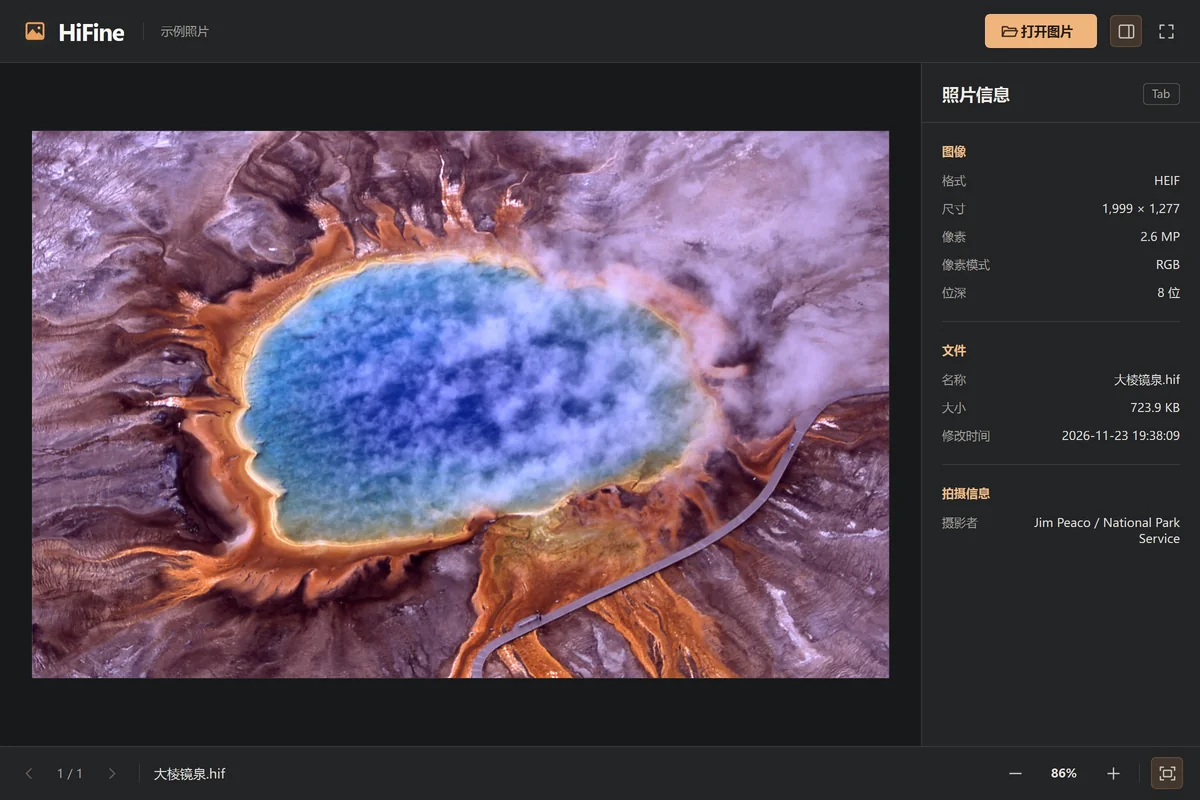
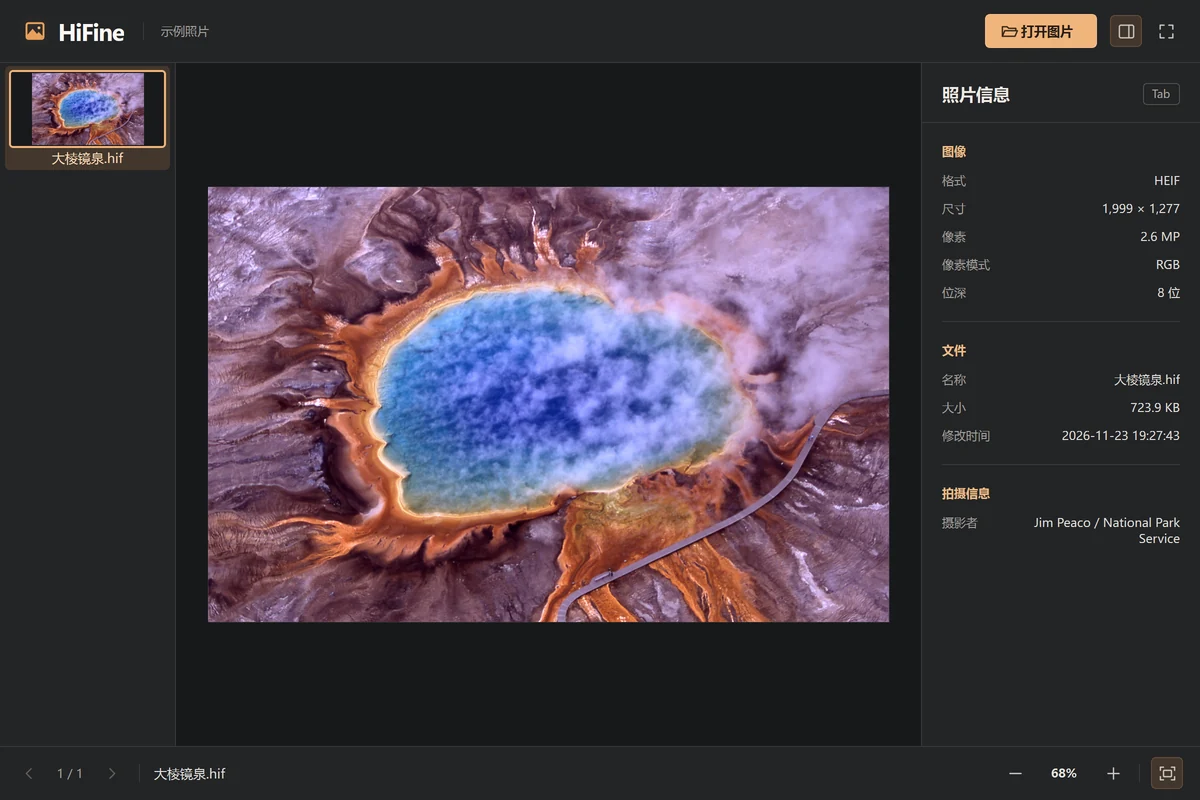
Prepare HiFine v0.2.0 with updated browsing and download guides

diff --git a/tests/windows/installer_smoke.py b/tests/windows/installer_smoke.py
@@ -11,6 +11,7 @@ import subprocess
 import sys
 import tempfile
 import time
+import tomllib
 import uuid
 import winreg
 
@@ -117,6 +118,8 @@ def main():
     software = root + r"\Software"
     classes = software + r"\Classes"
     bundle = REPO / "dist/HiFine"
+    with (REPO / "pyproject.toml").open("rb") as stream:
+        version = tomllib.load(stream)["project"]["version"]
     try:
         with tempfile.TemporaryDirectory(prefix="HiFine integration ") as work:
             directory = Path(work)
@@ -124,7 +127,7 @@ def main():
             target = directory / "HiFine"
             subprocess.run([
                 nsis, "/V2", "/INPUTCHARSET", "UTF8", "/XSetCompressor /FINAL zlib",
-                "/DAPP_VERSION=0.1.0", f"/DSOFTWARE_ROOT={software}", f"/DSHORTCUT_DIR={directory}",
+                f"/DAPP_VERSION={version}", f"/DSOFTWARE_ROOT={software}", f"/DSHORTCUT_DIR={directory}",
                 f"/DBUNDLE={bundle}", f"/DMANIFEST={REPO / 'build/windows/uninstall-files.nsh'}",
                 f"/DOUTPUT={setup}", REPO / "packaging/windows/installer.nsi",
             ], check=True)
@@ -134,6 +137,7 @@ def main():
             subprocess.run(f'"{setup}" /S /D={target}', check=True, timeout=90)
             app = target / "HiFine.exe"
             assert app.is_file() and (directory / "HiFine.lnk").is_file()
+            assert value(software + r"\Microsoft\Windows\CurrentVersion\Uninstall\HiFine", "DisplayVersion") == version
             assert value(classes + r"\.hif") == "HiFine.Heif"
             assert value(software + r"\RegisteredApplications", "HiFine") == software + r"\HiFine\Capabilities"
             assert value(classes + rf"\CLSID\{CLSID}\InprocServer32") == str(target / "HiFineThumbnail.dll")

diff --git a/src/hifine/__init__.py b/src/hifine/__init__.py
@@ -1,3 +1,3 @@
 """HiFine desktop image viewer."""
 
-__version__ = "0.1.0"
+__version__ = "0.2.0"

diff --git a/docs/releases/v0.2.0.md b/docs/releases/v0.2.0.md
@@ -1,0 +1,19 @@
+## 看图与文件操作
+
+- 左侧新增文件夹缩略图。单击即可跳到对应图片，用方向键翻页时，列表会跟随当前照片滚动。
+- 连续翻页时，HiFine 会优先预读翻页方向的相邻图片。往回翻可以复用已经解码的图像和拍摄信息。
+- 可以右击主图或任意缩略图。在 Windows 上可使用资源管理器的经典右键菜单，在 macOS 和 Linux 上可在文件管理器中定位图片。右击其他缩略图时，主图会保留当前照片。
+- 修复了文件夹中最后一张图片被编辑器删除再以原名保存时，主图和缩略图未能恢复的问题。
+
+## 下载
+
+| 系统 | 安装包 |
+| --- | --- |
+| Windows x64 | [HiFine-0.2.0-windows-x64-setup.exe](https://github.com/MistEO/HiFine/releases/download/v0.2.0/HiFine-0.2.0-windows-x64-setup.exe) |
+| Ubuntu 24.04 amd64 | [HiFine-0.2.0-linux-amd64.deb](https://github.com/MistEO/HiFine/releases/download/v0.2.0/HiFine-0.2.0-linux-amd64.deb) |
+| macOS 14 及以上，Apple 芯片 | [HiFine-0.2.0-macOS-arm64.dmg](https://github.com/MistEO/HiFine/releases/download/v0.2.0/HiFine-0.2.0-macOS-arm64.dmg) |
+| macOS 14 及以上，Intel 处理器 | [HiFine-0.2.0-macOS-x86_64.dmg](https://github.com/MistEO/HiFine/releases/download/v0.2.0/HiFine-0.2.0-macOS-x86_64.dmg) |
+
+macOS 版采用 ad-hoc 签名，首次打开时可能需要在“隐私与安全性”中选择“仍要打开”。各平台的安装步骤和默认看图应用设置见 [README](https://github.com/MistEO/HiFine/blob/v0.2.0/README.md#安装与双击打开)。
+
+安装包和 HEIF 组件源码包的 SHA-256 校验值随本版提供。[校验清单](https://github.com/MistEO/HiFine/releases/download/v0.2.0/SHA256SUMS.txt) · [HEIF 组件源码](https://github.com/MistEO/HiFine/releases/download/v0.2.0/HiFine-0.2.0-heif-sources.zip) · [第三方组件许可及源码](https://github.com/MistEO/HiFine/blob/v0.2.0/packaging/licenses/THIRD-PARTY.txt)
